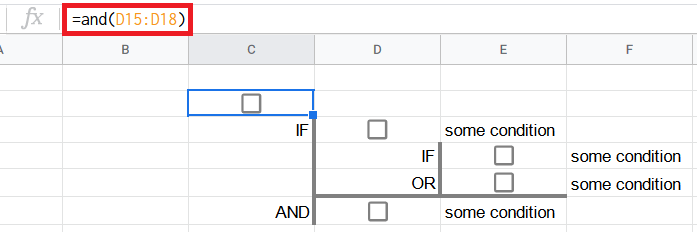
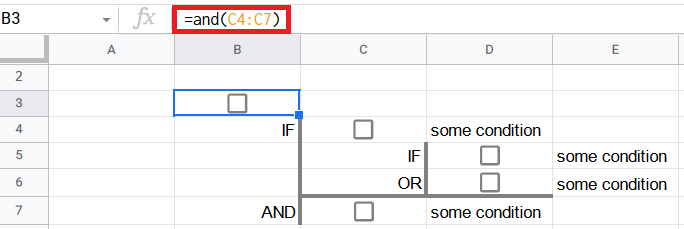
amend UserGuide

diff --git a/UserGuide.md b/UserGuide.md
@@ -18,6 +18,7 @@ Legal Spreadsheet Logo IMAGE
 - [Keywords](#Keywords)
   - [Single Cell Keywords](#single-cell-keywords)
   - [Keyword Cell Sequences](#keyword-cell-sequences)
+  - [Keyword Cell Sequence Logic](#keyword-cell-sequence-logic)
 - [Appendix A - Glossary](#glossary)
 - [Appendix B - Trademarks](#trademarks)
 
@@ -89,6 +90,15 @@ These are the ways the keyword sequences can be typed out.  Each keyword must be
 | IF, IF, OR, OR, AND, AND<sup>[2](#footnote2)</sup> | ![type IF, IF, OR, OR, AND, AND in the Legal Spreadsheet](images/IFIFORORANDAND.png) |
 
 <a name="footnote2">2</a>: The logic formula is at the top left outlined in red.  The cell outlined in blue is the cell where the logic formula resides in.
+
+### Keyword Cell Sequence Logic<a name="keyword-cell-sequence-logic" />
+
+| **Keyword Sequence Logic** | **Layout of Keywords** |
+| --- | --- |
+| IF C4 OR C5 OR C6 | ![type IF, OR, OR in the Legal Spreadsheet](images/IFOROR.png) |
+| IF C4 AND C5 AND C6 | ![type IF, AND, AND in the Legal Spreadsheet](images/IFANDAND.png) |
+| IF (D5 OR D6) AND C7 | ![type IF, OR, AND in the Legal Spreadsheet](images/IFIFORAND.png) |
+| IF, IF, OR, OR, AND, AND | ![type IF, IF, OR, OR, AND, AND in the Legal Spreadsheet](images/IFIFORORANDAND.png) |
 
 ## Appendix A - Glossary<a name="glossary" />
 
